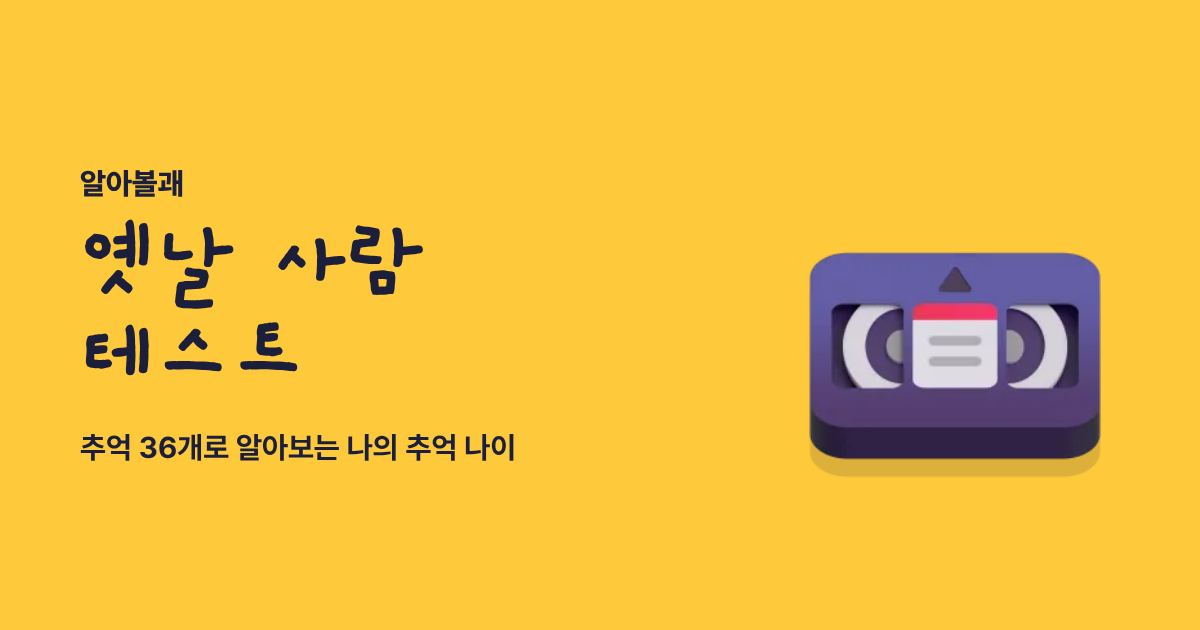
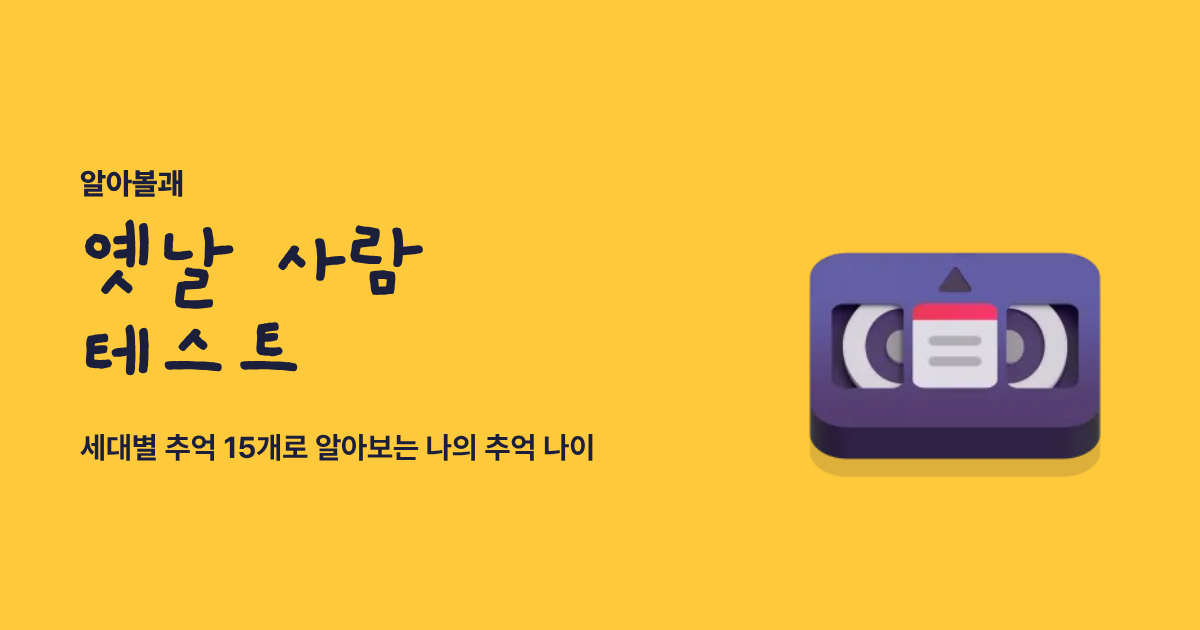
XZasd

Changed region(s): [[0.0617, 0.6937, 0.4933, 0.754]]

diff --git a/index.html b/index.html
@@ -336,7 +336,7 @@ body.home4 { padding-bottom: calc(68px + env(safe-area-inset-bottom)); }
     <div class="z-list" role="tabpanel" id="p-new" aria-labelledby="tab-new" data-panel="new">
       <a class="z-item t-jeok" href="tests/joseon-job/index.html" data-t="조선에 떨어진다면 내 직업은?" data-d="암행어사? 주막 사장? 12장면 조선 체험"><span class="z-emo" aria-hidden="true">🏯</span><span class="z-item-txt"><strong>조선에 떨어진다면 내 직업은?</strong><span>암행어사? 주막 사장? 12장면 조선 체험</span></span><span class="z-item-meta">12장면, 2분</span></a>
       <a class="z-item t-jeok" href="tests/my-hashtags/index.html" data-t="나를 해시태그 3개로 요약하면?" data-d="64가지 조합 중 나를 설명하는 태그 3개"><span class="z-emo" aria-hidden="true">💬</span><span class="z-item-txt"><strong>나를 해시태그 3개로 요약하면?</strong><span>64가지 조합 중 나를 설명하는 태그 3개</span></span><span class="z-item-meta">9문항, 1분</span></a>
-      <a class="z-item t-jeok" href="tests/retro-age/index.html" data-t="옛날 사람 테스트" data-d="유희왕 듀얼? 밀리오레 강매? 나의 추억 나이는?"><span class="z-emo" aria-hidden="true">📼</span><span class="z-item-txt"><strong>옛날 사람 테스트</strong><span>유희왕 듀얼? 밀리오레 강매? 나의 추억 나이는?</span></span><span class="z-item-meta">36문항, 1분</span></a>
+      <a class="z-item t-jeok" href="tests/retro-age/index.html" data-t="옛날 사람 테스트" data-d="유희왕 듀얼? 밀리오레 강매? 나의 추억 나이는?"><span class="z-emo" aria-hidden="true">📼</span><span class="z-item-txt"><strong>옛날 사람 테스트</strong><span>유희왕 듀얼? 밀리오레 강매? 나의 추억 나이는?</span></span><span class="z-item-meta">15문항, 1분</span></a>
       <a class="z-item t-jeok" href="tests/my-gua/index.html" data-t="나는 어떤 괘일까?" data-d="괘마을에서 보낸 일주일, 팔괘 중 나의 괘"><span class="z-emo" aria-hidden="true">☯</span><span class="z-item-txt"><strong>나는 어떤 괘일까?</strong><span>괘마을에서 보낸 일주일, 팔괘 중 나의 괘</span></span><span class="z-item-meta">12장면, 2분</span></a>
       <a class="z-item t-jeok" href="tests/baby-type/index.html" data-t="우리 아기 성격 유형" data-d="탐험대장? 애교뿜뿜? 고집장군? 엄마 아빠가 답해요"><span class="z-emo" aria-hidden="true">👶</span><span class="z-item-txt"><strong>우리 아기 성격 유형</strong><span>탐험대장? 애교뿜뿜? 고집장군? 엄마 아빠가 답해요</span></span><span class="z-item-meta">10문항, 1분</span></a>
       <a class="z-item t-jeok" href="tests/food-type/index.html" data-t="내가 음식이라면?" data-d="떡볶이? 곰탕? 마라탕?"><span class="z-emo" aria-hidden="true">🍽</span><span class="z-item-txt"><strong>내가 음식이라면?</strong><span>떡볶이? 곰탕? 마라탕?</span></span><span class="z-item-meta">10문항, 1분</span></a>
@@ -395,7 +395,7 @@ body.home4 { padding-bottom: calc(68px + env(safe-area-inset-bottom)); }
       <a class="z-item t-cheong" href="tests/coolness-index/index.html" data-t="쿨함 지수" data-d="쿨함 지수는 몇 %?"><span class="z-emo" aria-hidden="true">🧊</span><span class="z-item-txt"><strong>쿨함 지수</strong><span>쿨함 지수는 몇 %?</span></span><span class="z-item-meta">10문항, 30초</span></a>
     </div>
     <div class="z-list" role="tabpanel" id="p-temper" aria-labelledby="tab-temper" data-panel="temper" hidden>
-      <a class="z-item t-jeok" href="tests/retro-age/index.html" data-t="옛날 사람 테스트" data-d="유희왕 듀얼? 밀리오레 강매? 나의 추억 나이는?"><span class="z-emo" aria-hidden="true">📼</span><span class="z-item-txt"><strong>옛날 사람 테스트</strong><span>유희왕 듀얼? 밀리오레 강매? 나의 추억 나이는?</span></span><span class="z-item-meta">36문항, 1분</span></a>
+      <a class="z-item t-jeok" href="tests/retro-age/index.html" data-t="옛날 사람 테스트" data-d="유희왕 듀얼? 밀리오레 강매? 나의 추억 나이는?"><span class="z-emo" aria-hidden="true">📼</span><span class="z-item-txt"><strong>옛날 사람 테스트</strong><span>유희왕 듀얼? 밀리오레 강매? 나의 추억 나이는?</span></span><span class="z-item-meta">15문항, 1분</span></a>
       <a class="z-item t-jeok" href="tests/laziness-index/index.html" data-t="귀차니즘 지수" data-d="귀차니즘 지수는 몇 %?"><span class="z-emo" aria-hidden="true">🛋</span><span class="z-item-txt"><strong>귀차니즘 지수</strong><span>귀차니즘 지수는 몇 %?</span></span><span class="z-item-meta">10문항, 30초</span></a>
       <a class="z-item t-jeok" href="tests/hottemper-index/index.html" data-t="다혈질 지수" data-d="다혈질 지수는 몇 %?"><span class="z-emo" aria-hidden="true">🔥</span><span class="z-item-txt"><strong>다혈질 지수</strong><span>다혈질 지수는 몇 %?</span></span><span class="z-item-meta">10문항, 30초</span></a>
       <a class="z-item t-jeok" href="tests/sensitive-index/index.html" data-t="예민보스 지수" data-d="예민보스 지수는 몇 %?"><span class="z-emo" aria-hidden="true">🐚</span><span class="z-item-txt"><strong>예민보스 지수</strong><span>예민보스 지수는 몇 %?</span></span><span class="z-item-meta">10문항, 30초</span></a>

diff --git a/tests/retro-age/index.html b/tests/retro-age/index.html
@@ -7,11 +7,11 @@
 <meta charset="UTF-8" />
 <meta name="viewport" content="width=device-width, initial-scale=1, viewport-fit=cover" />
 <title>옛날 사람 테스트 | 알아볼괘</title>
-<meta name="description" content="유희왕 카드, 국민학교, 밀리오레 강매, 삐삐 공중전화, 탕후루까지. 36가지 추억 중 직접 해 본 것만 골라 보면 나의 &#x27;추억 나이&#x27;가 나와요." />
+<meta name="description" content="유희왕 카드, 국민학교, 밀리오레 강매, 삐삐 공중전화, 학력고사까지. 세대별 추억 15개를 해봤다·안해봤다로 골라 보면 나의 &#x27;추억 나이&#x27;가 나와요." />
 
 <meta property="og:type" content="website" />
 <meta property="og:title" content="옛날 사람 테스트" />
-<meta property="og:description" content="유희왕 듀얼 해 봤다? 밀리오레에서 강매당해 봤다? 36개 중 몇 개 해 봤어? 나의 추억 나이 확인하기" />
+<meta property="og:description" content="유희왕 듀얼 해 봤다? 밀리오레에서 강매당해 봤다? 15개 중 몇 개 해 봤어? 나의 추억 나이 확인하기" />
 <meta property="og:image" content="../../assets/img/og/retro-age-intro.png" />
 <meta property="og:url" content="./" />
 <meta name="twitter:card" content="summary_large_image" />
@@ -58,11 +58,11 @@
   <section class="hero">
     <div style="font-size:56px;margin-bottom:8px;">📼</div>
     <h1>옛날 사람 테스트</h1>
-    <p>그 시절 추억 36개, 해 봤다? 모른다?<br />고른 답으로 알아보는 나의 추억 나이</p>
+    <p>그 시절 추억 15개, 해봤다? 안해봤다?<br />고른 답으로 알아보는 나의 추억 나이</p>
   </section>
 
   <div class="card">
-    <p style="margin:0 0 10px;font-size:14px;color:var(--text-sub);">✅ 총 36문항 · 해 봤다 / 모른다만 누르면 끝</p>
+    <p style="margin:0 0 10px;font-size:14px;color:var(--text-sub);">✅ 총 15문항 · 할 때마다 문제가 바뀌어요</p>
     <p style="margin:0;font-size:14px;color:var(--text-sub);">✅ 결과는 10대부터 60대 이상까지 6단계</p>
   </div>
 
@@ -73,15 +73,15 @@
 
     <h2>추억으로 재는 나이</h2>
     <p>
-      누구에게나 '이걸 해 봤으면 나랑 같은 시절을 보낸 사람'이라는 추억이 있어요. 유희왕 카드, 국민학교, 밀리오레 강매처럼요. 이 테스트는 세대별 추억 36가지를 보여 주고, 해 봤다·모른다 답만으로 나의 '추억 나이'를 알려 드려요.
+      누구에게나 '이걸 해 봤으면 나랑 같은 시절을 보낸 사람'이라는 추억이 있어요. 유희왕 카드, 국민학교, 밀리오레 강매처럼요. 이 테스트는 세대별 추억 15가지를 보여 주고, 해봤다·안해봤다 답만으로 나의 '추억 나이'를 알려 드려요.
     </p>
     <p>
-      여기서 '해 봤다'는 이름만 들어 본 게 아니라 <strong>직접 해 봤거나 그 시절에 겪은 것</strong>을 뜻해요. 그래야 결과가 더 잘 맞아요.
+      여기서 '해봤다'는 이름만 들어 본 게 아니라 <strong>직접 해 봤거나 그 시절에 겪은 것</strong>을 뜻해요. 그래야 결과가 더 잘 맞아요.
     </p>
 
     <h2>결과는 이렇게 정해져요</h2>
     <p>
-      36문항은 2010년대생부터 60년대생까지 여섯 세대로 나뉘어 있고, 세대마다 6문항씩이에요. 문제 순서는 일부러 섞어 두었어요. 세대별로 몇 개를 해 봤는지 세어서, <strong>6개 중 4개 이상 해 본 가장 윗세대</strong>를 기준으로 추억 나이를 정해요.
+      문제는 2000년대생부터 60년대생까지 다섯 세대로 나뉘어 있어요. 세대마다 6개씩 준비된 추억 중 3개만 무작위로 나와서, 할 때마다 문제가 바뀌어요. 탕후루나 마라탕처럼 요즘 누구나 해 본 것은 일부러 뺐어요. 세대별로 몇 개를 해 봤는지 세어서, <strong>3개 중 2개 이상 해 본 가장 윗세대</strong>를 기준으로 추억 나이를 정해요. 어느 세대도 2개가 안 되면 10대가 나와요.
     </p>
     <p>
       결과 화면에는 세대별로 몇 개를 해 봤는지 막대로 보여 드려요. 이 숫자는 오직 내가 고른 답으로만 계산해요. 실제 나이를 맞히는 테스트가 아니라 재미로 보는 추억 테스트예요.
@@ -97,9 +97,9 @@
 
     <h2>자주 묻는 질문</h2>
     <div class="faq-item">
-      <p class="faq-q">어린 시절이 아니라 나중에 해 본 것도 &#x27;해 봤다&#x27;인가요?</p>
+      <p class="faq-q">어린 시절이 아니라 나중에 해 본 것도 &#x27;해봤다&#x27;인가요?</p>
       <p class="faq-a">
-        직접 해 봤다면 &#x27;해 봤다&#x27;를 눌러 주세요. 이름만 들어 봤다면 &#x27;모른다&#x27;가 결과에 더 잘 맞아요.
+        직접 해 봤다면 &#x27;해봤다&#x27;를 눌러 주세요. 이름만 들어 봤다면 &#x27;안해봤다&#x27;가 결과에 더 잘 맞아요.
       </p>
     </div>
     <div class="faq-item">

diff --git a/tests/retro-age/quiz.html b/tests/retro-age/quiz.html
@@ -8,11 +8,11 @@
 <meta name="viewport" content="width=device-width, initial-scale=1, viewport-fit=cover" />
 <title>옛날 사람 테스트 진행중... | 알아볼괘</title>
 <meta name="robots" content="noindex" />
-<meta name="description" content="유희왕 카드, 국민학교, 밀리오레 강매, 삐삐 공중전화, 탕후루까지. 36가지 추억 중 직접 해 본 것만 골라 보면 나의 &#x27;추억 나이&#x27;가 나와요." />
+<meta name="description" content="유희왕 카드, 국민학교, 밀리오레 강매, 삐삐 공중전화, 학력고사까지. 세대별 추억 15개를 해봤다·안해봤다로 골라 보면 나의 &#x27;추억 나이&#x27;가 나와요." />
 
 <meta property="og:type" content="website" />
 <meta property="og:title" content="옛날 사람 테스트" />
-<meta property="og:description" content="유희왕 듀얼 해 봤다? 밀리오레에서 강매당해 봤다? 36개 중 몇 개 해 봤어? 나의 추억 나이 확인하기" />
+<meta property="og:description" content="유희왕 듀얼 해 봤다? 밀리오레에서 강매당해 봤다? 15개 중 몇 개 해 봤어? 나의 추억 나이 확인하기" />
 <meta property="og:image" content="../../assets/img/og/retro-age-intro.png" />
 <meta property="og:url" content="./" />
 <meta name="twitter:card" content="summary_large_image" />
@@ -76,7 +76,7 @@
   <div class="progress-outer">
     <div class="progress-inner" id="progressBar" style="width:0%;"></div>
   </div>
-  <div class="progress-label" id="progressLabel">0 / 36</div>
+  <div class="progress-label" id="progressLabel">0 / 15</div>
 
   <div class="card">
     <div class="question-num" id="qNum">Q1</div>
@@ -90,7 +90,14 @@
 <script src="../../assets/js/retro-age-data.js"></script>
 <script>
   (function () {
-    var Q = NT_DATA.questions, total = Q.length, current = 0, picks = [];
+    // 세대마다 문제 묶음에서 몇 개씩만 무작위로 골라 섞어서 내요
+    function shuffle(a) { for (var i = a.length - 1; i > 0; i--) { var j = Math.floor(Math.random() * (i + 1)), t = a[i]; a[i] = a[j]; a[j] = t; } return a; }
+    var Q = [];
+    NT_DATA.labels.forEach(function (_, k) {
+      Q = Q.concat(shuffle(NT_DATA.questions.filter(function (q) { return q.level === k + 2; })).slice(0, NT_DATA.ask));
+    });
+    shuffle(Q);
+    var total = Q.length, current = 0, picks = [];
     var qNum = document.getElementById("qNum"), qEmo = document.getElementById("qEmo"), qText = document.getElementById("qText"), qHint = document.getElementById("qHint");
     var optionsEl = document.getElementById("options"), bar = document.getElementById("progressBar"), label = document.getElementById("progressLabel");
     function render() {
@@ -100,7 +107,7 @@
       qText.textContent = q.text;
       qHint.textContent = q.hint;
       optionsEl.innerHTML = "";
-      [["🙆 해 봤다", 1], ["🙅 모른다", 0]].forEach(function (o) {
+      [["🙆 해봤다", 1], ["🙅 안해봤다", 0]].forEach(function (o) {
         var b = document.createElement("button");
         b.className = "option-btn"; b.type = "button"; b.textContent = o[0];
         b.addEventListener("click", function () { pick(o[1]); });
@@ -120,11 +127,11 @@
       render(); window.scrollTo({ top: 0, behavior: "smooth" });
     }
     function finish(p) {
-      // 세대별(1~6단계) 아는 개수. 6개 중 4개 이상 해 본 가장 오래된 시대가 결과
-      var c = [0, 0, 0, 0, 0, 0];
-      p.forEach(function (v, i) { if (v === 1) c[Q[i].level - 1] += 1; });
+      // 세대별로 해 본 개수. 3개 중 2개 이상 해 본 가장 윗세대가 결과 (하나도 없으면 10대)
+      var c = NT_DATA.labels.map(function () { return 0; });
+      p.forEach(function (v, i) { if (v === 1) c[Q[i].level - 2] += 1; });
       var lv = 1;
-      for (var L = 6; L >= 2; L--) { if (c[L - 1] >= 4) { lv = L; break; } }
+      for (var L = c.length + 1; L >= 2; L--) { if (c[L - 2] >= 2) { lv = L; break; } }
       return "result-" + NT_DATA.ids[lv - 1] + ".html?d=" + c.join("-");
     }
     render();

diff --git a/assets/js/retro-age-data.js b/assets/js/retro-age-data.js
@@ -8,12 +8,6 @@ var NT_DATA = {
    "hint": "1996년에 초등학교로 이름이 바뀌기 전, 그 학교"
   },
   {
-   "level": 1,
-   "emoji": "🦈",
-   "text": "'아기상어 뚜루루뚜루'를 따라 불러 봤다",
-   "hint": "전 세계 아이들이 따라 부른 그 동요"
-  },
-  {
    "level": 3,
    "emoji": "🃏",
    "text": "유희왕 카드로 친구랑 듀얼해 봤다",
@@ -42,12 +36,6 @@ var NT_DATA = {
    "emoji": "👕",
    "text": "동대문 밀리오레에서 옷 구경하다 강매당해 봤다",
    "hint": "\"야, 형이 너한테만 보여주는 옷이야~\" 옷 파는 형의 그 한마디"
-  },
-  {
-   "level": 1,
-   "emoji": "🍓",
-   "text": "탕후루를 줄 서서 사 먹어 봤다",
-   "hint": "설탕 코팅 과일 꼬치 열풍"
   },
   {
    "level": 3,
@@ -86,12 +74,6 @@ var NT_DATA = {
    "hint": "\"디지몬은 우리들의 친구~\" 그 만화"
   },
   {
-   "level": 1,
-   "emoji": "🌶",
-   "text": "마라탕 맵기 단계를 골라 봤다",
-   "hint": "몇 단계 먹을지가 자존심이던 시절"
-  },
-  {
    "level": 6,
    "emoji": "🧮",
    "text": "주산 학원을 다녀 봤다",
@@ -120,12 +102,6 @@ var NT_DATA = {
    "emoji": "📺",
    "text": "텔레토비 '안녕~' 인사를 따라 해 봤다",
    "hint": "배에 화면 달린 네 친구"
-  },
-  {
-   "level": 1,
-   "emoji": "📸",
-   "text": "네 컷 사진 부스에서 머리띠 쓰고 찍어 봤다",
-   "hint": "친구랑 만나면 무조건 찍고 가는 그 부스"
   },
   {
    "level": 6,
@@ -158,12 +134,6 @@ var NT_DATA = {
    "hint": "요정 같던 두 걸그룹, 너는 누구 편?"
   },
   {
-   "level": 1,
-   "emoji": "🍞",
-   "text": "포켓몬빵 띠부씰을 모아 봤다",
-   "hint": "빵보다 스티커가 먼저였던 그 빵"
-  },
-  {
    "level": 6,
    "emoji": "🚨",
    "text": "밤 12시 통행금지 사이렌을 들어 봤다",
@@ -194,12 +164,6 @@ var NT_DATA = {
    "hint": "미니홈피 꾸미기의 필수품"
   },
   {
-   "level": 1,
-   "emoji": "📱",
-   "text": "틱톡 챌린지 춤을 따라 해 봤다",
-   "hint": "15초 안에 끝나는 유행 춤"
-  },
-  {
    "level": 6,
    "emoji": "👔",
    "text": "중·고등학교 때 교복 자율화를 겪어 봤다",
@@ -218,6 +182,7 @@ var NT_DATA = {
    "hint": "필통보다 소중했던 그 책받침"
   }
  ],
+ "ask": 3,
  "ids": [
   "age10",
   "age20",
@@ -226,16 +191,7 @@ var NT_DATA = {
   "age50",
   "age60"
  ],
- "perLevel": [
-  6,
-  6,
-  6,
-  6,
-  6,
-  6
- ],
  "labels": [
-  "2010년대생",
   "2000년대생",
   "90년대생",
   "80년대생",

diff --git a/tests/retro-age/result-age10.html b/tests/retro-age/result-age10.html
@@ -96,7 +96,7 @@
   <section class="article">
     <h2>옛날 이야기가 새로운 세대</h2>
     <p>
-      이 결과가 나왔다면 오늘 테스트에 나온 추억 상당수가 처음 보는 것이었을 거예요. 그만큼 지금 유행과 가까이 있다는 뜻이죠. 지금 즐기는 탕후루, 네 컷 사진도 언젠가는 누군가의 추억이 될 거예요.
+      이 결과가 나왔다면 오늘 테스트에 나온 추억 상당수가 처음 보는 것이었을 거예요. 그만큼 지금 유행과 가까이 있다는 뜻이죠. 지금 즐기는 놀이와 유행도 언젠가는 누군가의 추억이 될 거예요.
     </p>
     <h2>이렇게 즐겨 보세요</h2>
     <p>
@@ -144,7 +144,7 @@
   (function () {
     var ID = "age10", LV = 1, TITLE = "추억 나이 10대", EMO = "🐣";
     // 시대별로 아는 개수 (?d=) - 테스트를 마친 사람에게만 보여요
-    var per = NT_DATA.perLevel;
+    var per = NT_DATA.labels.map(function () { return NT_DATA.ask; });
     var d = (new URLSearchParams(location.search).get("d") || "").split("-").map(Number);
     if (d.length === per.length && d.every(function (x, i) { return x >= 0 && x <= per[i]; })) {
       var sum = d.reduce(function (a, b) { return a + b; }, 0), all = per.reduce(function (a, b) { return a + b; }, 0);
@@ -153,7 +153,7 @@
       d.forEach(function (n, i) {
         var pct = Math.round(n / per[i] * 100);
         var row = document.createElement("div");
-        row.className = "nt-bar" + (i + 1 === LV ? " me" : "");
+        row.className = "nt-bar" + (i + 2 === LV ? " me" : "");
         row.innerHTML = '<span></span><div class="nt-bar-track"><div class="nt-bar-fill"></div></div><span></span>';
         row.children[0].textContent = NT_DATA.labels[i];
         row.children[2].textContent = n + "/" + per[i];

diff --git a/tests/retro-age/result-age60.html b/tests/retro-age/result-age60.html
@@ -144,7 +144,7 @@
   (function () {
     var ID = "age60", LV = 6, TITLE = "추억 나이 60대 이상", EMO = "🚨";
     // 시대별로 아는 개수 (?d=) - 테스트를 마친 사람에게만 보여요
-    var per = NT_DATA.perLevel;
+    var per = NT_DATA.labels.map(function () { return NT_DATA.ask; });
     var d = (new URLSearchParams(location.search).get("d") || "").split("-").map(Number);
     if (d.length === per.length && d.every(function (x, i) { return x >= 0 && x <= per[i]; })) {
       var sum = d.reduce(function (a, b) { return a + b; }, 0), all = per.reduce(function (a, b) { return a + b; }, 0);
@@ -153,7 +153,7 @@
       d.forEach(function (n, i) {
         var pct = Math.round(n / per[i] * 100);
         var row = document.createElement("div");
-        row.className = "nt-bar" + (i + 1 === LV ? " me" : "");
+        row.className = "nt-bar" + (i + 2 === LV ? " me" : "");
         row.innerHTML = '<span></span><div class="nt-bar-track"><div class="nt-bar-fill"></div></div><span></span>';
         row.children[0].textContent = NT_DATA.labels[i];
         row.children[2].textContent = n + "/" + per[i];

diff --git a/tests/retro-age/result-age20.html b/tests/retro-age/result-age20.html
@@ -144,7 +144,7 @@
   (function () {
     var ID = "age20", LV = 2, TITLE = "추억 나이 20대", EMO = "🐧";
     // 시대별로 아는 개수 (?d=) - 테스트를 마친 사람에게만 보여요
-    var per = NT_DATA.perLevel;
+    var per = NT_DATA.labels.map(function () { return NT_DATA.ask; });
     var d = (new URLSearchParams(location.search).get("d") || "").split("-").map(Number);
     if (d.length === per.length && d.every(function (x, i) { return x >= 0 && x <= per[i]; })) {
       var sum = d.reduce(function (a, b) { return a + b; }, 0), all = per.reduce(function (a, b) { return a + b; }, 0);
@@ -153,7 +153,7 @@
       d.forEach(function (n, i) {
         var pct = Math.round(n / per[i] * 100);
         var row = document.createElement("div");
-        row.className = "nt-bar" + (i + 1 === LV ? " me" : "");
+        row.className = "nt-bar" + (i + 2 === LV ? " me" : "");
         row.innerHTML = '<span></span><div class="nt-bar-track"><div class="nt-bar-fill"></div></div><span></span>';
         row.children[0].textContent = NT_DATA.labels[i];
         row.children[2].textContent = n + "/" + per[i];

diff --git a/tests/retro-age/result-age30.html b/tests/retro-age/result-age30.html
@@ -144,7 +144,7 @@
   (function () {
     var ID = "age30", LV = 3, TITLE = "추억 나이 30대", EMO = "🃏";
     // 시대별로 아는 개수 (?d=) - 테스트를 마친 사람에게만 보여요
-    var per = NT_DATA.perLevel;
+    var per = NT_DATA.labels.map(function () { return NT_DATA.ask; });
     var d = (new URLSearchParams(location.search).get("d") || "").split("-").map(Number);
     if (d.length === per.length && d.every(function (x, i) { return x >= 0 && x <= per[i]; })) {
       var sum = d.reduce(function (a, b) { return a + b; }, 0), all = per.reduce(function (a, b) { return a + b; }, 0);
@@ -153,7 +153,7 @@
       d.forEach(function (n, i) {
         var pct = Math.round(n / per[i] * 100);
         var row = document.createElement("div");
-        row.className = "nt-bar" + (i + 1 === LV ? " me" : "");
+        row.className = "nt-bar" + (i + 2 === LV ? " me" : "");
         row.innerHTML = '<span></span><div class="nt-bar-track"><div class="nt-bar-fill"></div></div><span></span>';
         row.children[0].textContent = NT_DATA.labels[i];
         row.children[2].textContent = n + "/" + per[i];

diff --git a/tests/retro-age/result-age40.html b/tests/retro-age/result-age40.html
@@ -144,7 +144,7 @@
   (function () {
     var ID = "age40", LV = 4, TITLE = "추억 나이 40대", EMO = "🏫";
     // 시대별로 아는 개수 (?d=) - 테스트를 마친 사람에게만 보여요
-    var per = NT_DATA.perLevel;
+    var per = NT_DATA.labels.map(function () { return NT_DATA.ask; });
     var d = (new URLSearchParams(location.search).get("d") || "").split("-").map(Number);
     if (d.length === per.length && d.every(function (x, i) { return x >= 0 && x <= per[i]; })) {
       var sum = d.reduce(function (a, b) { return a + b; }, 0), all = per.reduce(function (a, b) { return a + b; }, 0);
@@ -153,7 +153,7 @@
       d.forEach(function (n, i) {
         var pct = Math.round(n / per[i] * 100);
         var row = document.createElement("div");
-        row.className = "nt-bar" + (i + 1 === LV ? " me" : "");
+        row.className = "nt-bar" + (i + 2 === LV ? " me" : "");
         row.innerHTML = '<span></span><div class="nt-bar-track"><div class="nt-bar-fill"></div></div><span></span>';
         row.children[0].textContent = NT_DATA.labels[i];
         row.children[2].textContent = n + "/" + per[i];

diff --git a/tests/retro-age/result-age50.html b/tests/retro-age/result-age50.html
@@ -144,7 +144,7 @@
   (function () {
     var ID = "age50", LV = 5, TITLE = "추억 나이 50대", EMO = "📟";
     // 시대별로 아는 개수 (?d=) - 테스트를 마친 사람에게만 보여요
-    var per = NT_DATA.perLevel;
+    var per = NT_DATA.labels.map(function () { return NT_DATA.ask; });
     var d = (new URLSearchParams(location.search).get("d") || "").split("-").map(Number);
     if (d.length === per.length && d.every(function (x, i) { return x >= 0 && x <= per[i]; })) {
       var sum = d.reduce(function (a, b) { return a + b; }, 0), all = per.reduce(function (a, b) { return a + b; }, 0);
@@ -153,7 +153,7 @@
       d.forEach(function (n, i) {
         var pct = Math.round(n / per[i] * 100);
         var row = document.createElement("div");
-        row.className = "nt-bar" + (i + 1 === LV ? " me" : "");
+        row.className = "nt-bar" + (i + 2 === LV ? " me" : "");
         row.innerHTML = '<span></span><div class="nt-bar-track"><div class="nt-bar-fill"></div></div><span></span>';
         row.children[0].textContent = NT_DATA.labels[i];
         row.children[2].textContent = n + "/" + per[i];

diff --git a/CLAUDE.md b/CLAUDE.md
@@ -96,7 +96,7 @@
 
 ### 남은 정리거리
 
-- 2026-10-29 새 테스트 3종(푸망·테스트잇 참고, 직접 기획): `joseon-job`(조선 직업, 12장면 이야기형, 8결과), `retro-age`(10-29 '옛날 사람 테스트'로 교체: 직접 겪은 추억 36개 '해 봤다/모른다', 2010년대생~60년대생 6세대×6문항, 6개 중 4개 이상 해 본 가장 윗세대로 10대~60대+ 결과 `result-age10~60.html?d=세대별개수`, 예전 result-y90/y00/y10/y20 은 index 로 넘기는 빈 페이지), `my-hashtags`(해시태그 3개 조합 64가지, 결과는 `result.html?t=` 한 장 + 기기 안에서 그리는 카드 저장). 셋 다 new-test.ps1 이 아니라 스크래치 빌더로 만든 페이지라 고칠 때는 파일을 직접 고친다. 데이터는 `assets/js/<슬러그>-data.js`.
+- 2026-10-29 새 테스트 3종(푸망·테스트잇 참고, 직접 기획): `joseon-job`(조선 직업, 12장면 이야기형, 8결과), `retro-age`(10-29 '옛날 사람 테스트'로 교체: 2000년대생~60년대생 5세대 × 문제 묶음 6개 중 3개씩 무작위 출제(총 15문항, ASK 값), 버튼 '해봤다/안해봤다', 3개 중 2개 이상 해 본 가장 윗세대로 20대~60대+ 결과(없으면 10대) `result-age10~60.html?d=세대별개수`. 탕후루·마라탕 같은 요즘 것은 모든 세대가 해 봐서 뺌, 예전 result-y90/y00/y10/y20 은 index 로 넘기는 빈 페이지), `my-hashtags`(해시태그 3개 조합 64가지, 결과는 `result.html?t=` 한 장 + 기기 안에서 그리는 카드 저장). 셋 다 new-test.ps1 이 아니라 스크래치 빌더로 만든 페이지라 고칠 때는 파일을 직접 고친다. 데이터는 `assets/js/<슬러그>-data.js`.
 - `my-gua`(나는 어떤 괘일까? 팔괘 캐릭터 테스트)는 new-test.ps1 이 아니라 직접 만든 이야기형 테스트다. 12장면, 답마다 세 축(위=첫인상, 가운데=속마음, 아래=시작 방식)에 쌓여 막대 세 줄 → 팔괘 8결과. 데이터는 `assets/js/my-gua-data.js`, 문항에 `{이름}` 자리표시자가 있다.
 - `tools/new-test.ps1` 템플릿도 새 옷(test-skin, quiz-plus, `--rc`)으로 바꿔 둠. 다시 돌려도 새 디자인이 유지된다.
 
